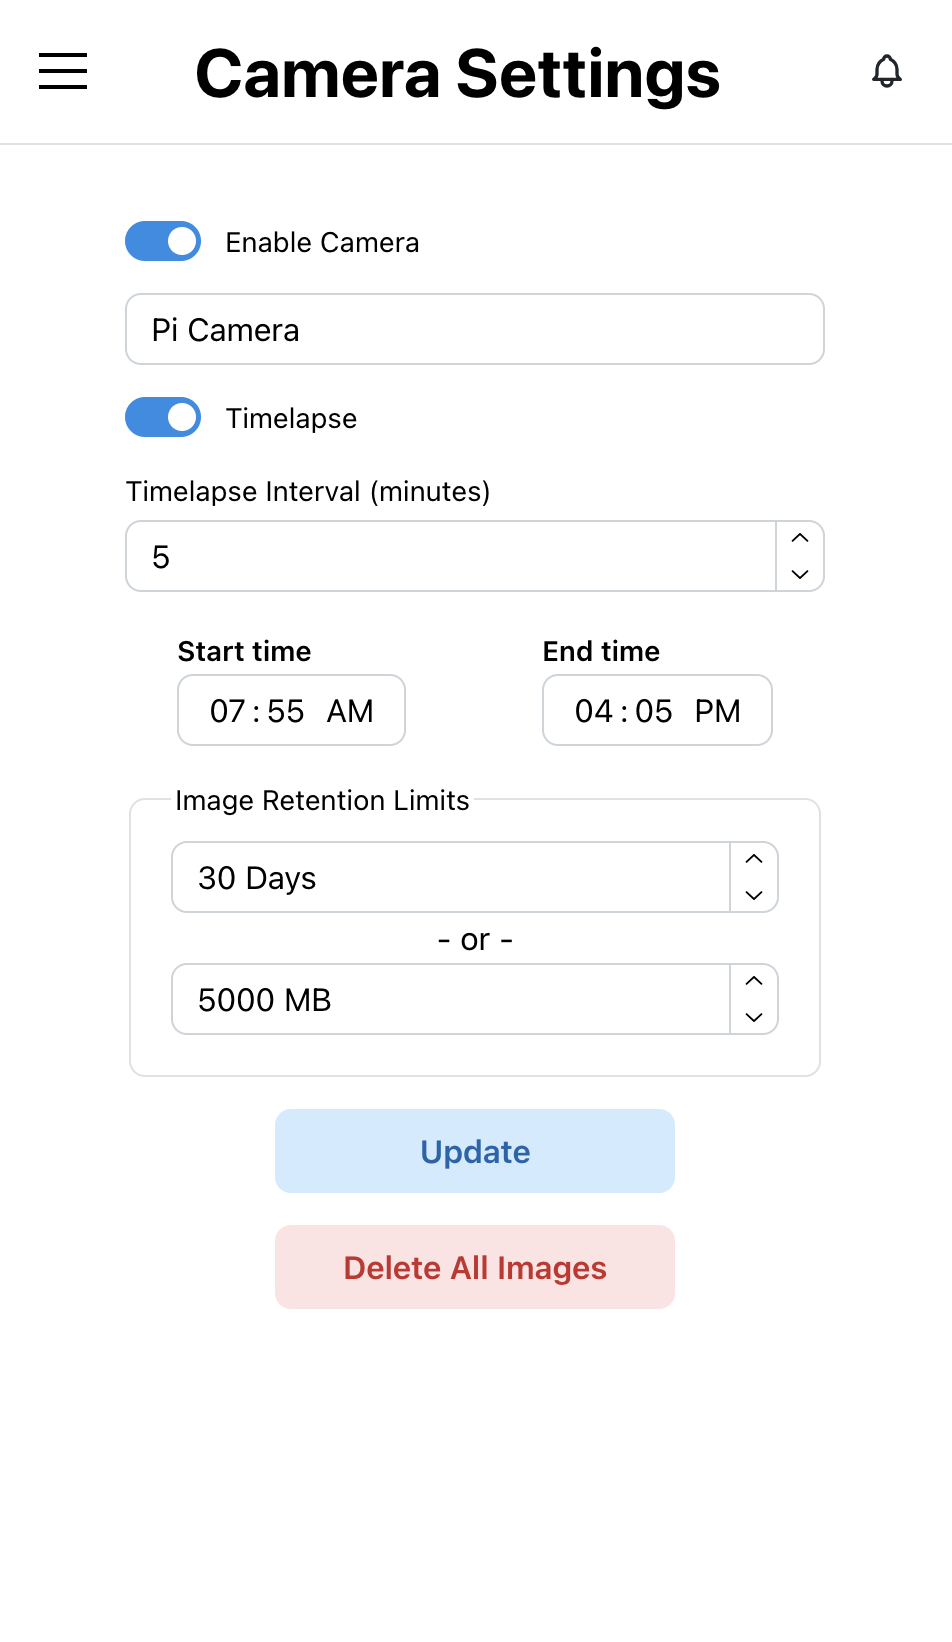
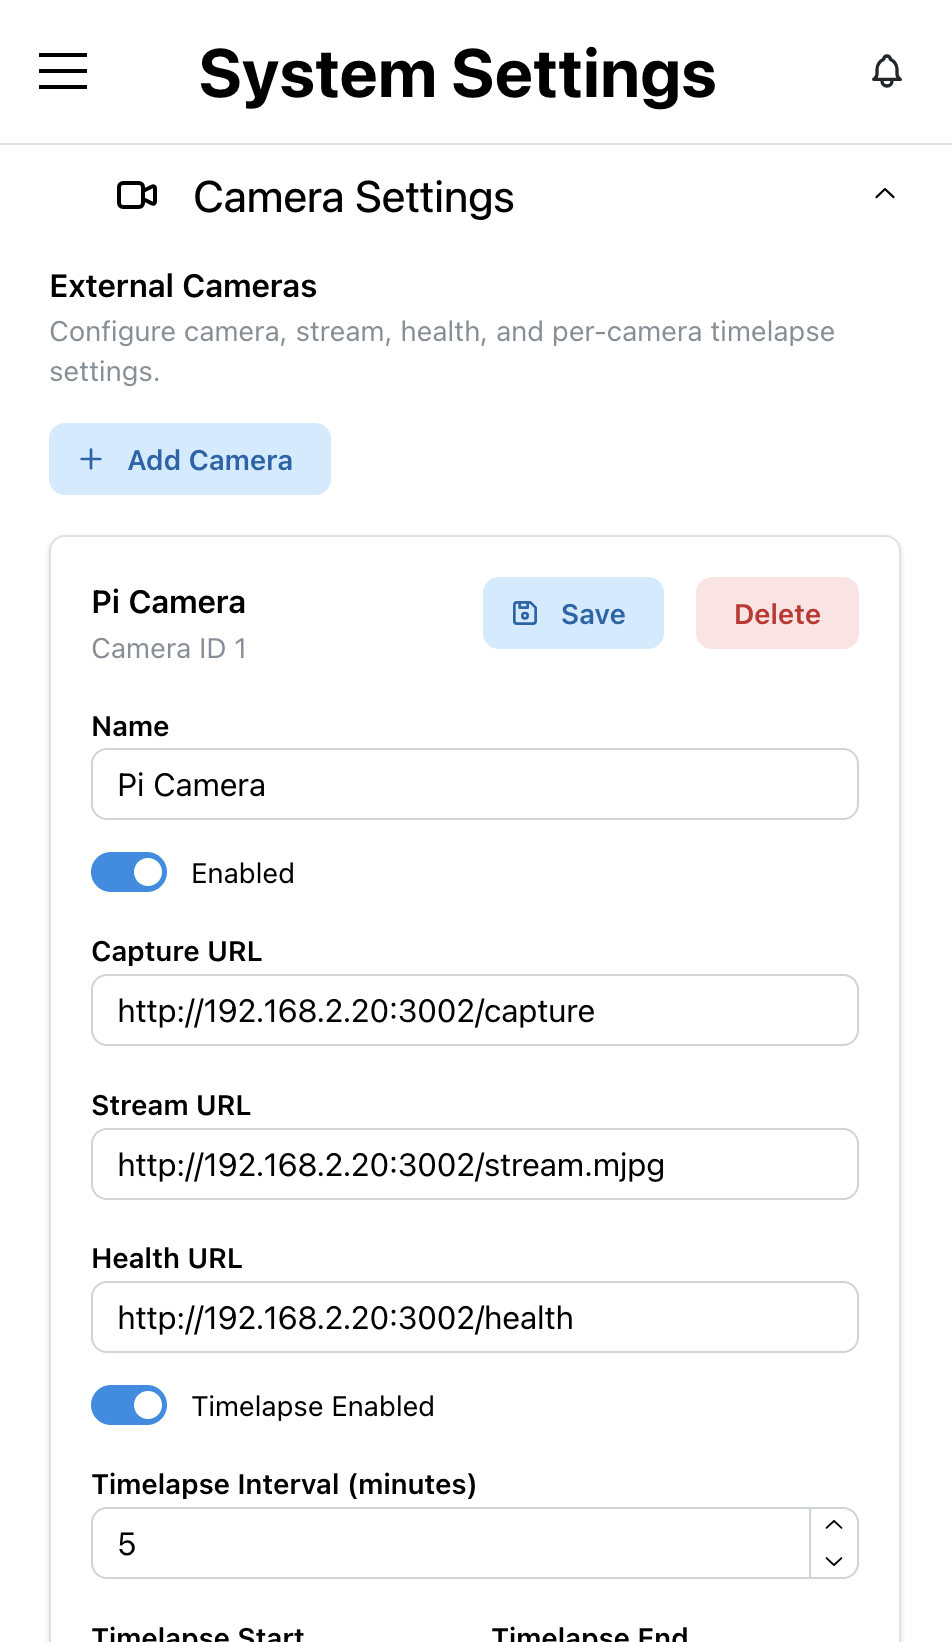
Some docs and stuff.

diff --git a/docs/docs/how-to/camera.md b/docs/docs/how-to/camera.md
@@ -7,7 +7,7 @@ title: Camera
 
 Sometimes sensors and raw metrics can only get you so far. Maybe you're just curious about your plants and want to sneak a peak to see if your microgreens have greened up a bit since coming out of the dark. Maybe you want to see watch your strawberry leaves bob in the breeze of the fans. Or maybe you're worried your cat has parked itself in the middle of your shelf under the warm artificial sun.
 
-Sproot can integrate with a Raspberry Pi Camera Module for capturing images, livestreaming video, and archiving images together for timelapse generation. To get started, you'll need to have the module connected to and enabled on your Raspberry Pi.
+Sproot can integrate with a Raspberry Pi Camera Module (and other web cameras) for capturing images, livestreaming video, and archiving images together for timelapse generation. To get started, you'll need to have a web camera with endpoints for capturing and returning an image, and for streaming mjpeg. There's one built into Sproot - just uncomment out the camera service inside of the docker-compose.yaml file. You can connect to from Sproot with your device's IP address.
 
 ## Camera Settings
 
@@ -17,11 +17,11 @@ Sproot can integrate with a Raspberry Pi Camera Module for capturing images, liv
 
 ### Enabling the camera
 
-First, you'll need to make sure you have a Raspberry Pi Camera Module working on your Raspberry Pi. Once that's working, navigate to `Settings -> Camera` and turn the `Enable Camera` slider to on. You can also change the name of the camera if you want. Once this is done, click `Update` at the bottom and you should see `Live View` appear in the nav bar.
+First, you'll need to make sure you have a Raspberry Pi Camera Module working on your Raspberry Pi. Once that's working, navigate to `Settings -> System` and look for the `Camera Settings` accordion. Update the endpoints with your configuration, turn the `Enable Camera` slider to on, and save your settings. You can also change the name of the camera if you want. Once this is done, click `Save` at the top and you should see `Live View` appear in the nav bar. You can configure additional cameras if you want.
 
-- To disable the camera, just turn move the `Enable Camera` slider to off and click `Update`.
+- To disable the camera, just turn move the `Enable Camera` slider to off and click `Save`. To fully remove a camera, click `Delete`.
 
-Sproot takes an image once a minute at the highest resolution reported by the camera. However, the video quality is set to `1280x960 @ 30fps` to limit bandwidth and processor usage.
+Sproot takes an image once a minute. The default service uses a video quality of `1280x960 @ 30fps` to limit bandwidth and processor usage.
 
 ### Timelapses
 
@@ -52,6 +52,6 @@ There's also a button labeled `Delete All Images` that will delete all of your e
 <p style={{ textAlign: 'center' }}>
   <img src="/docs/img/LiveView.png" alt="Live View" style={{ width: '30%', maxWidth: '100%', height: 'auto' }} />
 </p>
-Navigate to the `Live View` tab from the navbar. Below the view port of your lovely camera, you'll find a section labeled `Timelapse Archive`. You can download your archive by simply clicking `Download`. Additionally, if you want to manually regenerate the archive, click the `Regenerate` button.
+Navigate to the `Live View` tab from the navbar. There will be a dropdown where you can navigate between any cameras you've configured. Below the view port of your lovely camera, you'll find a section labeled `Timelapse Archive`. You can download your archive by simply clicking `Download`. Additionally, if you want to manually regenerate the archive, click the `Regenerate` button.
 
 - Generating archives is a slow, performance intensive operation. Things may be sluggish while this is happening. If you're curious about how long it takes, you can view stats by following the instructions [here](system-status/#timelapse).
